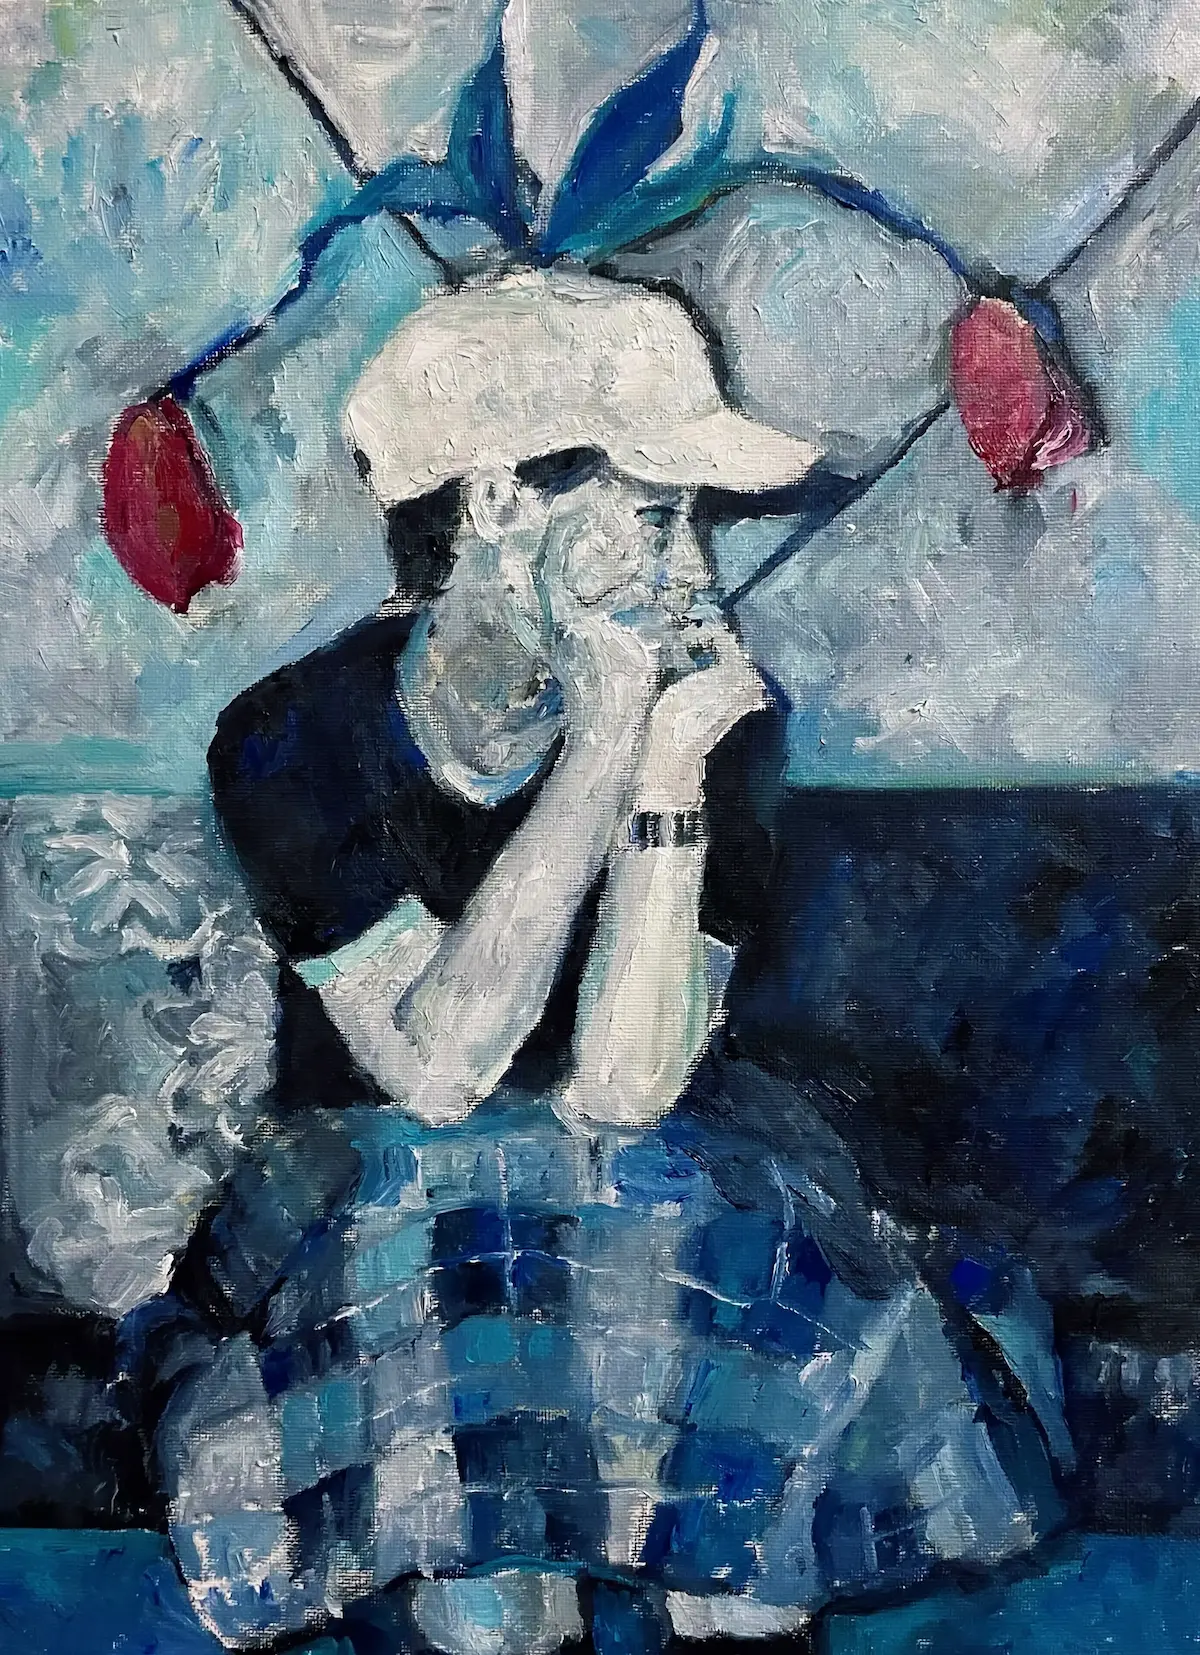
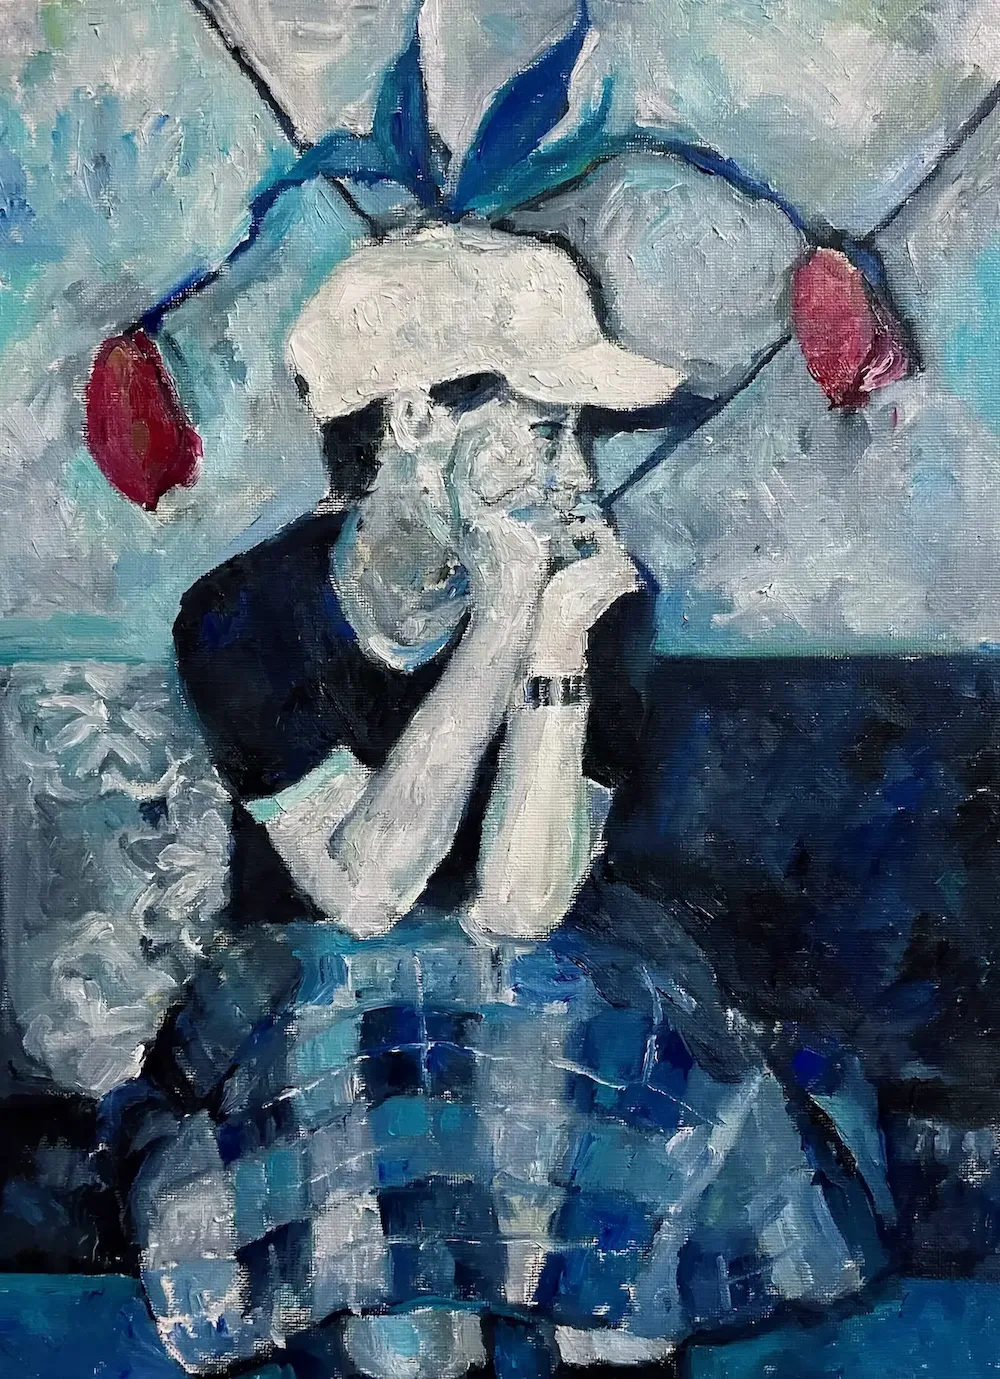
反映

Changed region(s): [[0.31, 0.343, 0.341, 0.3742], [0.279, 0.9355, 0.31, 0.9666]]

diff --git a/index.css b/index.css
@@ -478,4 +478,5 @@ footer {
   justify-content: center;
   align-items: center;
   width: 220px;
+  height: auto;
 }
